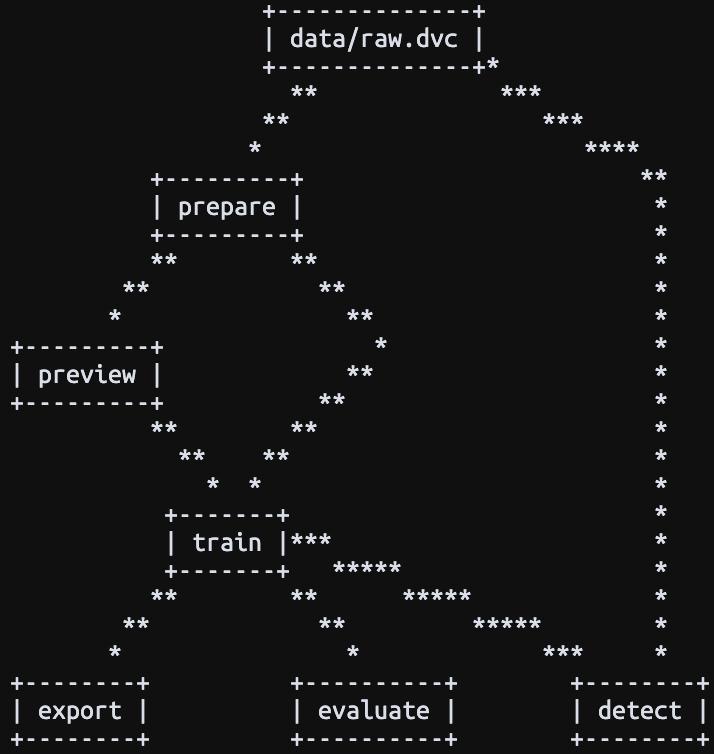
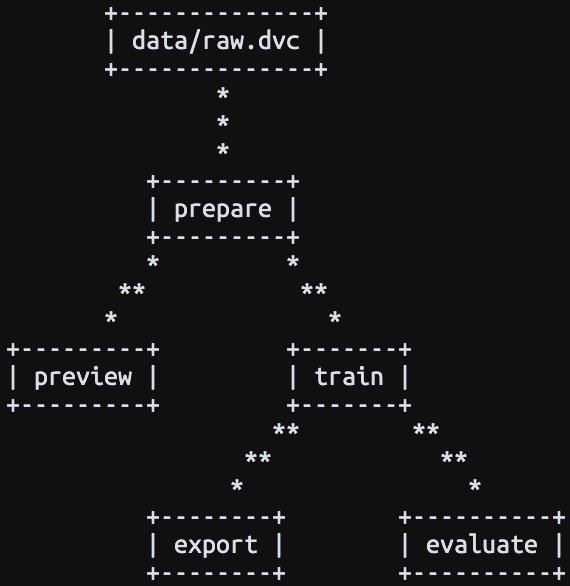
Add dvc pipline documentation

diff --git a/docs/dvc.md b/docs/dvc.md
@@ -1,6 +1,63 @@
+# DVC Integration
+
+- [About](#about)
+- [Stages](#stages)
+  - [Prepare](#prepare)
+  - [Preview](#preview)
+  - [Train](#train)
+  - [Export](#export)
+  - [Evaluate](#evaluate)
+- [Directed Acyclic Graph (DAG)](#directed-acyclic-graph-dag)
+- [Data Flow](#data-flow)
+
+## About
+
+The full pipeline is implemented using DVC and can be found in `dvc.yaml`.
+
+The pipeline is composed of 5 stages: `prepare`, `preview`, `train`, `export`, and `evaluate`. Each stage is implemented in a separate script in the `src` directory.
+
+The parameters for each stage are defined in the `params.yaml` file.
+
+## Stages
+
+### Prepare
+
+In this stage we:
+
+1. Create tiles
+2. Pull raw data + labelstudio annotations from S3
+3. Upload tiles + xml annotations to S3
+
+We upload the tiles and annotations to S3 to avoid storing them in DVC cache. This is because it would not be efficient to store large amounts of data in DVC cache. Instead, we store the data in S3 and pull it when needed. See more in the <a href="#train">Train</a> stage.
+
+> **Note**
+> As this stage does not create any outputs (we are saving the dataset to a S3 bucket), we create a dummy output (`data/prepared/depends.txt`) to make other stages depend on this one. See more about this [here](https://github.com/iterative/dvc/issues/8881).
 
 
+### Preview
 
-### Dummy outputs for DVC
+In this stage we:
 
-https://github.com/iterative/dvc/issues/8881
+1. Pull some images from S3
+2. Save them into DVC Cache
+
+### Train
+
+In this stage we train the model using PyTorch lightning. We use PyTorch to prefetch and convert the images and annotations to tensors from the S3 bucket. This way we can train on the fly without storing data in the pod or in DVC cache.
+
+### Export
+
+In this stage we export the model to TorchScript and wrap it in a BentoML model.
+
+### Evaluate
+
+In this stage we evaluate the model on the test set. (not implemented yet)
+
+## Directed Acyclic Graph (DAG)
+
+<img src="../media/dag.png" width="350" />
+
+## Data Flow
+
+<img src="../media/data-flow.png" width="550" />
+
